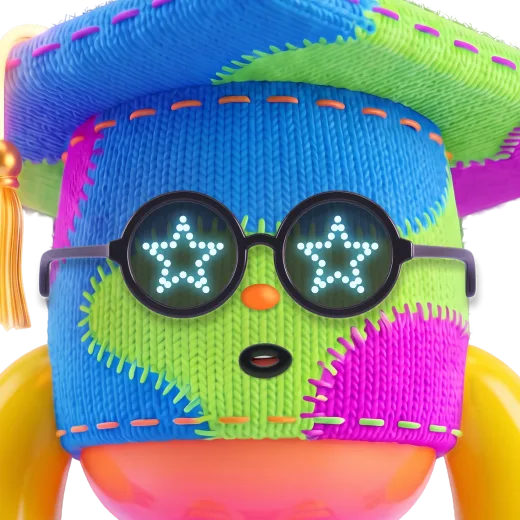
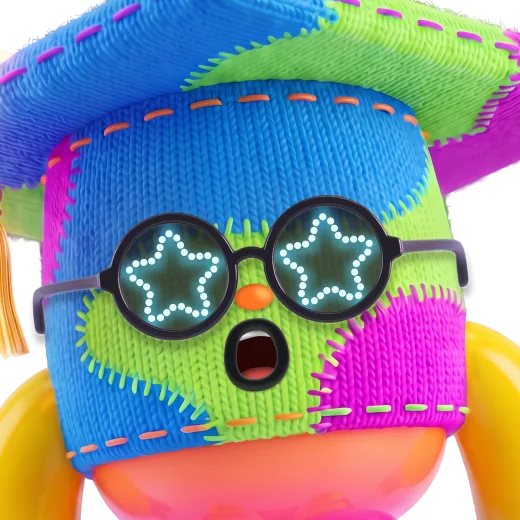
feat(tutor): Декстер слушает и злится своими лицами из макета
«Dexter Flat» (Figma, 30.10.2026) дорисован до семи вариантов: «Слушает»
стал своей позой (рука у уха), появились «Злится» и «Говорит», «Удивляется»
перерисован. В звонок идут «Слушает» и «Злится» (на него же — ярость),
«Удивляется» перевыгружен. «Говорит» в макете без слоя рта — не ставим.

Кадр выгружен тем же способом, что и прежние лица: TutorFrame 7200:13606 без
заливки, обводки и скругления, ×2 → 520², webp q82; альфа нейтрального
совпала с прежней выгрузкой пиксель в пиксель.

diff --git a/src/tutor/TutorPortrait.jsx b/src/tutor/TutorPortrait.jsx
@@ -6,12 +6,15 @@ import { useState } from 'react'
 // новом макете в рамке сам персонаж.
 //
 // Эмоции нарисованы только у Декстера (компонент «Dexter Flat» на странице
-// «АВАТАР ТЬЮТОРА»: нейтрально, радуется, думает, удивляется) — это его
-// tutor.portraits. У остальных анимаций пока нет — временно одно нейтральное
-// лицо, а состояние звонка видно по движению (говорит — покачивается, думает —
-// наклоняется).
-// «Слушает» у Декстера в макете совпадает с «удивляется» — тогда он весь звонок
-// слушал бы с открытым ртом, поэтому слушает он нейтральным лицом.
+// «АВАТАР ТЬЮТОРА»: нейтрально, радуется, думает, удивляется, слушает, злится)
+// — это его tutor.portraits. У остальных анимаций пока нет — временно одно
+// нейтральное лицо, а состояние звонка видно по движению (говорит —
+// покачивается, думает — наклоняется).
+// До 30.10.2026 «Слушает» в макете совпадал с «удивляется», и слушал Декстер
+// нейтральным лицом; теперь это своя поза — рука у уха.
+// «Говорит» в макете (30.10.2026) без рта — слоя Mouth в варианте нет, лицо
+// пустое. Пока его не дорисуют, говорит Декстер текущим лицом с покачиванием.
+// У сочувствия и скуки своего варианта нет — нейтральное лицо.
 const VARIANT = {
   happy: 'happy',
   celebrate: 'happy',
@@ -19,6 +22,9 @@ const VARIANT = {
   surprised: 'surprised',
   confused: 'surprised',
   thinking: 'thinking',
+  listening: 'listening',
+  angry: 'angry',
+  rage: 'angry',
 }
 
 export default function TutorPortrait({ tutor = {}, emotion = 'idle', speaking = false, className = '' }) {

diff --git a/src/tutor/TutorPortrait.test.jsx b/src/tutor/TutorPortrait.test.jsx
@@ -1,0 +1,48 @@
+// @vitest-environment jsdom
+import { describe, it, expect } from 'vitest'
+import { existsSync } from 'node:fs'
+import { render } from '@testing-library/react'
+import TutorPortrait from './TutorPortrait.jsx'
+import { TUTORS } from './tutors.js'
+
+const dexter = TUTORS.find((t) => t.key === 'dexter')
+const shown = (container) => container.querySelector('.tp-portrait__img.is-on').getAttribute('src')
+
+describe('TutorPortrait', () => {
+  it('у Декстера «слушает» — своя поза, а не нейтральное лицо', () => {
+    const { container } = render(<TutorPortrait tutor={dexter} emotion="listening" />)
+    expect(shown(container)).toBe(dexter.portraits.listening)
+  })
+
+  it('злость и ярость — одно лицо «Злится»', () => {
+    for (const emotion of ['angry', 'rage']) {
+      const { container, unmount } = render(<TutorPortrait tutor={dexter} emotion={emotion} />)
+      expect(shown(container)).toBe(dexter.portraits.angry)
+      unmount()
+    }
+  })
+
+  // Эмоция без своего варианта не должна оставлять рамку пустой.
+  it('без своего варианта — нейтральное лицо', () => {
+    for (const emotion of ['sympathy', 'sleepy', 'idle', 'constructor']) {
+      const { container, unmount } = render(<TutorPortrait tutor={dexter} emotion={emotion} />)
+      expect(shown(container)).toBe(dexter.portrait)
+      unmount()
+    }
+  })
+
+  it('у тьютора без эмоций любая эмоция — его единственное лицо', () => {
+    const luna = TUTORS.find((t) => t.key === 'luna')
+    const { container } = render(<TutorPortrait tutor={luna} emotion="angry" />)
+    expect(shown(container)).toBe(luna.portrait)
+  })
+
+  // Опечатка в пути не ловится ничем, кроме пустой рамки посреди звонка.
+  it('каждая картинка лица лежит в public/', () => {
+    for (const t of TUTORS) {
+      for (const src of [t.portrait, ...Object.values(t.portraits || {})].filter(Boolean)) {
+        expect(existsSync(`public${src}`), `${t.key}: ${src}`).toBe(true)
+      }
+    }
+  })
+})

diff --git a/src/tutor/tutors.js b/src/tutor/tutors.js
@@ -17,7 +17,7 @@
 //  card     — фигурка карточки выбора (узел Avatar 195×260, ×3);
 //  stage    — фон сцены карточки (у каждого свой тон);
 //  portrait — лицо в рамке на странице тьютора (TutorPortrait). У Декстера это
-//             его «Dexter Flat» в кадре рамки, и эмоций у него четыре
+//             его «Dexter Flat» в кадре рамки, и эмоций у него шесть
 //             (portraits — по ключу эмоции TutorPortrait); остальным анимаций
 //             пока нет — временно нейтральное лицо (картинки владельца
 //             29.10.2026, белый фон срезан, кадр как у Декстера);
@@ -58,6 +58,8 @@ const BASE_TUTORS = [
       happy: '/tutor/v2/dexter-happy.webp',
       surprised: '/tutor/v2/dexter-surprised.webp',
       thinking: '/tutor/v2/dexter-thinking.webp',
+      listening: '/tutor/v2/dexter-listening.webp',
+      angry: '/tutor/v2/dexter-angry.webp',
     },
     tint: '#ceccff',
     traitColors: ['#2cbf45', '#4a40c3', '#c39520'],
